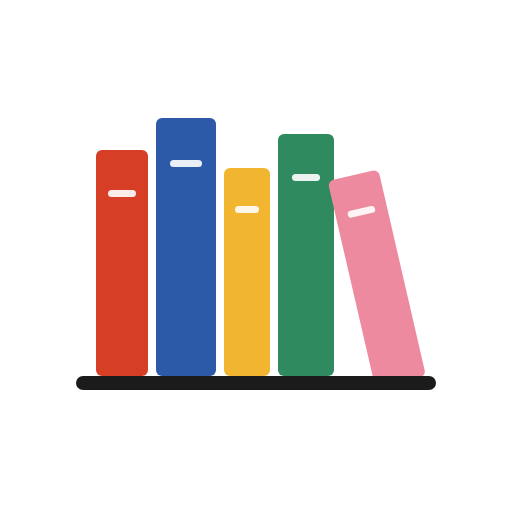
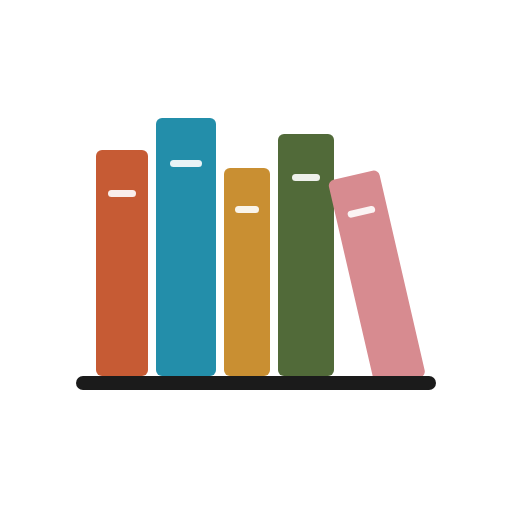
책 색 팔레트를 전집 책장 사진에서 뽑은 20색으로 교체 (v14)
- 사용자가 보낸 책장 사진에서 책등 색을 군집 분석으로 추출하고, 흰 책장을 기준으로 조명 보정
- 채도는 사진 속 전집 톤(중간 채도)에 맞추고 색상환 전체에 고르게 20색 배치
- 서가 줄무늬와 앱 아이콘 색도 새 팔레트로

Claude-Session: https://claude.ai/code/session_01X1wQ3vteunxLLdW8P5av8h

Changed region(s): [[0.1875, 0.2188, 0.6562, 0.75]]

diff --git a/app.js b/app.js
@@ -63,7 +63,7 @@
   }
 
   // 앱 버전: 홈 화면 앱이 최신인지 화면에서 확인할 수 있어요
-  const APP_VERSION = "v13";
+  const APP_VERSION = "v14";
   $("app-version").textContent = APP_VERSION;
 
   // 서비스워커: 새 버전이 배포되면 알아서 받아서 한 번 새로고침해요
@@ -391,13 +391,14 @@
 
   // ---------- 책마다 고유한 색 ----------
   // 책 제목으로 색을 정해서, 어느 기기에서 보든 같은 책은 늘 같은 색이에요.
-  // 고전 전집 표지에서 흔히 보이는 색감으로 고른 팔레트 [색, 이름]
-  // (색을 바꾸고 싶으면 여기만 고치면 돼요. 글자색은 자동으로 정해져요)
+  // 보내주신 전집 책장 사진에서 뽑은 책등 색으로 만든 팔레트 [색, 이름]
+  // (사진 속 흰 책장을 기준으로 조명을 보정했어요. 색을 바꾸고 싶으면 여기만 고치면 돼요. 글자색은 자동)
   const BOOK_COLORS = [
-    ["#d63e26", "주홍"], ["#2c5aa8", "코발트"], ["#f2b530", "겨자"], ["#2f8a5f", "초록"],
-    ["#7d4e9e", "보라"], ["#17808e", "청록"], ["#ee8aa0", "분홍"], ["#c0632a", "적갈"],
-    ["#253b66", "남색"], ["#9aa23a", "올리브"], ["#c2397a", "자홍"], ["#6fb3e0", "하늘"],
-    ["#f0803c", "주황"], ["#8fb39a", "세이지"], ["#e6d6b3", "모래"], ["#2b2b2b", "먹색"],
+    ["#a73229", "벽돌"], ["#c65b34", "주홍"], ["#d97359", "산호"], ["#f0a46d", "살구"],
+    ["#d78b90", "장밋빛"], ["#93535f", "와인"], ["#8a5b87", "자두"], ["#9a85b5", "라벤더"],
+    ["#494f76", "남보라"], ["#56799b", "청회색"], ["#73a9c4", "하늘"], ["#238eaa", "청록"],
+    ["#21556a", "심해"], ["#477775", "바다"], ["#80a26f", "세이지"], ["#516a39", "숲"],
+    ["#817c4c", "올리브"], ["#c98f32", "겨자"], ["#d3b081", "모래"], ["#7c524b", "코코아"],
   ];
   // 배경색에 맞춰 더 잘 읽히는 글자색(흰색/먹색)을 골라요
   function inkFor(hex) {

diff --git a/styles.css b/styles.css
@@ -15,10 +15,10 @@
   --danger: #d0342c;
   --shadow: 0 1px 2px rgba(0, 0, 0, .04), 0 6px 18px rgba(0, 0, 0, .05);
 
-  /* 책 색 팔레트 (app.js 의 BOOK_COLORS 와 같은 순서) — 서가 줄무늬에 써요 */
-  --c1: #d63e26; --c2: #2c5aa8; --c3: #f2b530; --c4: #2f8a5f;
-  --c5: #7d4e9e; --c6: #17808e; --c7: #ee8aa0; --c8: #c0632a;
-  --c9: #253b66; --c10: #9aa23a; --c11: #c2397a; --c12: #6fb3e0;
+  /* 서가 줄무늬 색 (책장 사진에서 뽑은 팔레트 중 일부) */
+  --c1: #c65b34; --c2: #238eaa; --c3: #c98f32; --c4: #516a39;
+  --c5: #8a5b87; --c6: #56799b; --c7: #d78b90; --c8: #a73229;
+  --c9: #494f76; --c10: #817c4c; --c11: #93535f; --c12: #73a9c4;
 
   --serif: "Noto Serif KR", "Nanum Myeongjo", "AppleMyungjo", "Batang", serif;
   --sans: -apple-system, BlinkMacSystemFont, "Apple SD Gothic Neo", "Pretendard", "Malgun Gothic", system-ui, sans-serif;

diff --git a/index.html b/index.html
@@ -20,7 +20,7 @@
   <link rel="preconnect" href="https://fonts.googleapis.com">
   <link rel="preconnect" href="https://fonts.gstatic.com" crossorigin>
   <link rel="stylesheet" href="https://fonts.googleapis.com/css2?family=Noto+Serif+KR:wght@400;500;700&display=swap">
-  <link rel="stylesheet" href="styles.css?v=13">
+  <link rel="stylesheet" href="styles.css?v=14">
 </head>
 <body>
   <div id="app">
@@ -200,8 +200,8 @@
 
   <div id="toast" class="toast" role="status" aria-live="polite"></div>
 
-  <script src="config.js?v=13"></script>
+  <script src="config.js?v=14"></script>
   <script src="https://cdn.jsdelivr.net/npm/@supabase/supabase-js@2.117.3/dist/umd/supabase.js"></script>
-  <script src="app.js?v=13"></script>
+  <script src="app.js?v=14"></script>
 </body>
 </html>

diff --git a/sw.js b/sw.js
@@ -2,7 +2,7 @@
    앱 화면 파일을 저장해 두어 빠르게 열리고, 인터넷이 없어도 화면이 뜨게 합니다.
    앱 파일은 '인터넷 먼저'로 받아서 업데이트가 바로 반영됩니다. */
 
-const CACHE = "sentence-archive-v13";
+const CACHE = "sentence-archive-v14";
 const SHELL = [
   "./",
   "index.html",
